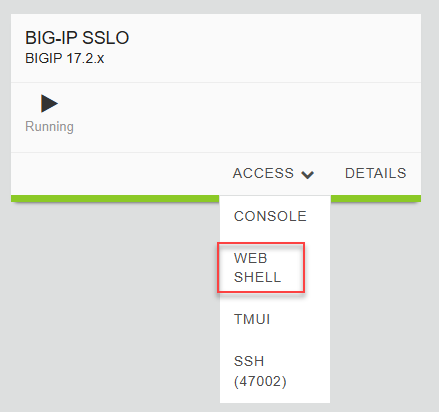
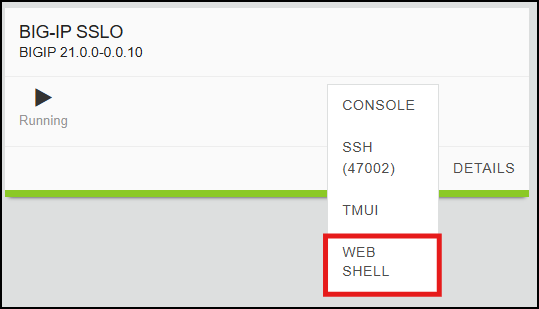
Updated lab2.rst to include updated screenshots and updated instructions for the lab.

diff --git a/Module-2-Outbound-proxy-with-user-coaching/lab2.rst b/Module-2-Outbound-proxy-with-user-coaching/lab2.rst
@@ -35,7 +35,7 @@ Download the Installation Script
 
    .. tip::
 
-      Click the **copy** icon in the URL text box above and paste it into the **Ubuntu-Client - Web Shell** session. If your local machine is Windows, press the <CTRL>-<SHIFT>-V combination to paste.
+      Click the **copy** icon in the URL text box above and paste it into the **BIG-IP SSLO - Web Shell** session. If your local machine is Windows, press the <CTRL>-<SHIFT>-V combination to paste.
 
 
 
@@ -72,7 +72,12 @@ Run the Installation Script
 Verify Object Creation
 --------------------------------------------------------------------------------
 
-#. Switch to your local web browser tab that contains the **BIG-IP TMUI**.
+#. From the UDF **Deployment** tab, access the TMUI of the **BIG-IP SSL Orchestrator** resource. This will open a new browser tab with a GUI session (login as the **admin** user with the password **admin**).
+
+   .. image:: images/udf-sslo-tmui.png
+      :align: left
+
+
 
 
 #. Navigate to **Local Traffic > iRules** and verify that the following iRules are present.
